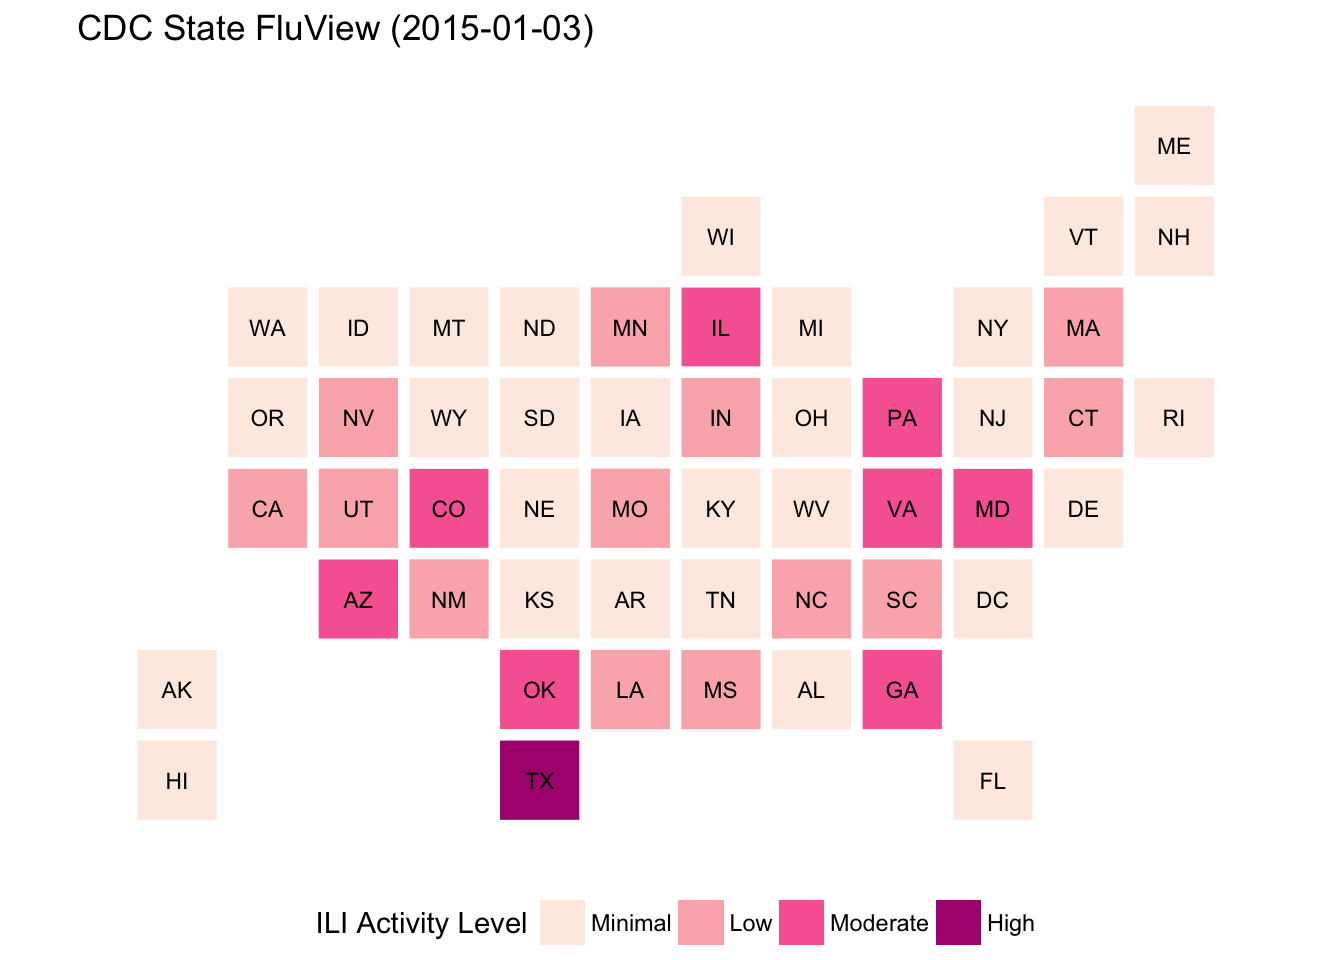
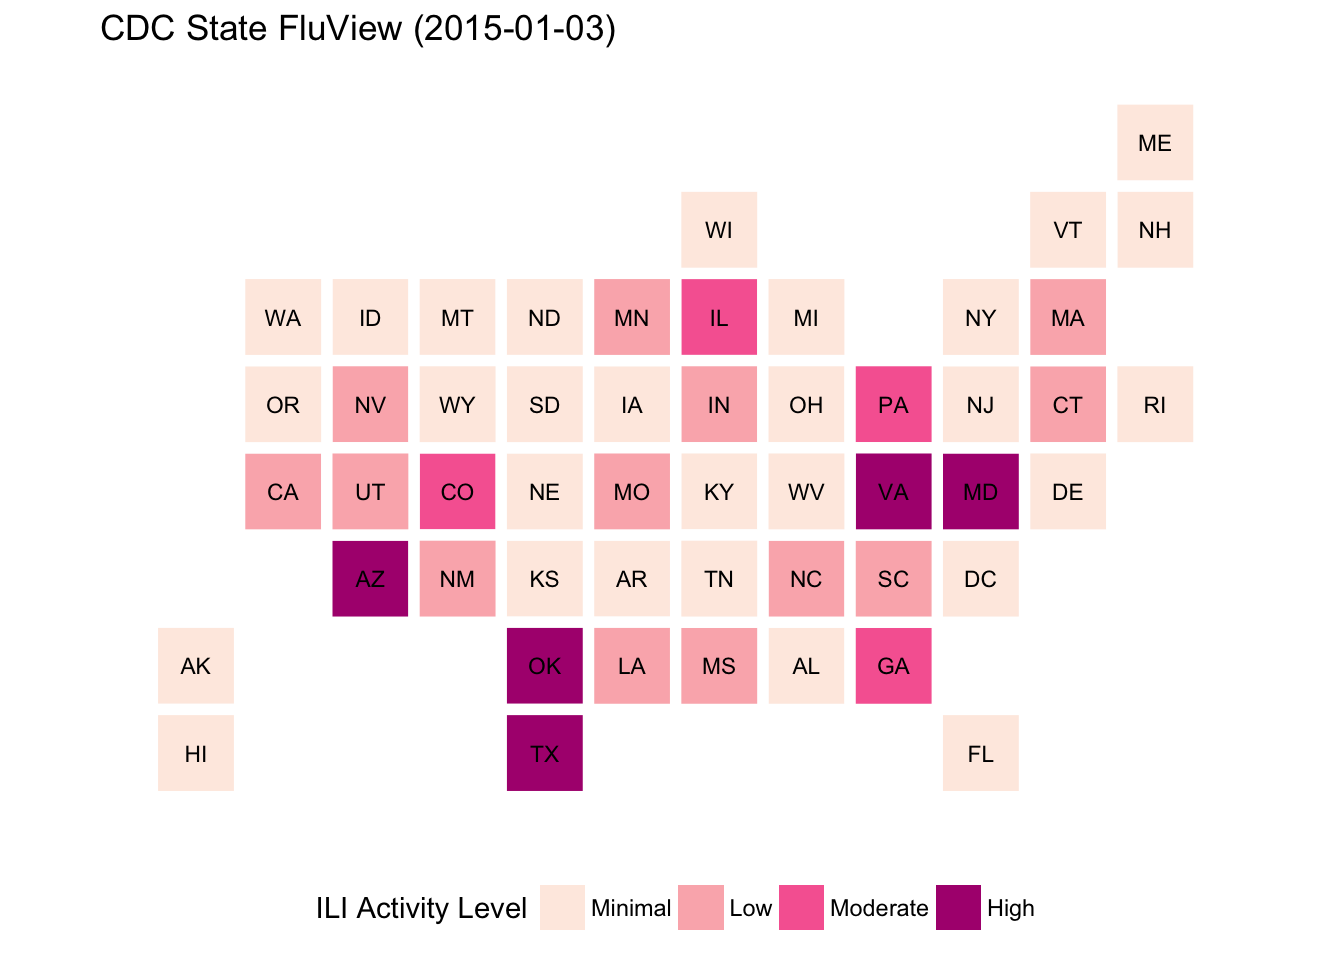
README fix + needed lib-v8 for travis

diff --git a/README.md b/README.md
@@ -1,20 +1,20 @@
 
 ### :mask: cdcfluview - Retrieve U.S. Flu Season Data from the CDC FluView Portal
 
-[![CRAN\_Status\_Badge](http://www.r-pkg.org/badges/version/cdcfluview)](https://cran.r-project.org/package=cdcfluview)
+[![CRAN\_Status\_Badge](http://www.r-pkg.org/badges/version/cdcfluview)](https://cran.r-project.org/package=cdcfluview) [![Travis-CI Build Status](https://travis-ci.org/NA/NA.svg?branch=master)](https://travis-ci.org/NA/NA)
 
-**NOTE** If there's a particular data set from <http://www.cdc.gov/flu/weekly/fluviewinteractive.htm> that you want and that isn't in the package, please file it as an issue and be as specific as you can (screen shot if possible).
+**NOTE** If there's a particular data set from <https://www.cdc.gov/flu/weekly/fluviewinteractive.htm> that you want and that isn't in the package, please file it as an issue and be as specific as you can (screen shot if possible).
 
 ------------------------------------------------------------------------
 
-The U.S. Centers for Disease Control (CDC) maintains a [portal](http://gis.cdc.gov/grasp/fluview/fluportaldashboard.html) for accessing state, regional and national influenza statistics. The portal's Flash interface makes it difficult and time-consuming to select and retrieve influenza data. This package provides functions to access the data provided by the portal's underlying API.
+The U.S. Centers for Disease Control (CDC) maintains a [portal](https://gis.cdc.gov/grasp/fluview/fluportaldashboard.html) for accessing state, regional and national influenza statistics. The portal's Flash interface makes it difficult and time-consuming to select and retrieve influenza data. This package provides functions to access the data provided by the portal's underlying API.
 
 The following functions are implemented:
 
 -   `get_flu_data`: Retrieves state, regional or national influenza statistics from the CDC
 -   `get_state_data`: Retrieves state/territory-level influenza statistics from the CDC
 -   `get_weekly_flu_report`: Retrieves (high-level) weekly influenza surveillance report from the CDC
--   `get_mortality_surveillance_data` : (fairly self explanatory but also pretty new to the pkg and uses data from: <http://www.cdc.gov/flu/weekly/nchs.htm>
+-   `get_mortality_surveillance_data` : (fairly self explanatory but also pretty new to the pkg and uses data from: <https://www.cdc.gov/flu/weekly/nchs.htm>
 
 The following data sets are included:
 
@@ -49,7 +49,7 @@ library(statebins)
 
 # current verison
 packageVersion("cdcfluview")
-#> [1] '0.5.0'
+#> [1] '0.5.1'
 
 flu <- get_flu_data("hhs", sub_region=1:10, "ilinet", years=2014)
 glimpse(flu)
@@ -59,30 +59,30 @@ glimpse(flu)
 #> $ REGION            <chr> "Region 1", "Region 2", "Region 3", "Region 4", "Region 5", "Region 6", "Region 7", "Regi...
 #> $ YEAR              <int> 2014, 2014, 2014, 2014, 2014, 2014, 2014, 2014, 2014, 2014, 2014, 2014, 2014, 2014, 2014,...
 #> $ WEEK              <int> 40, 40, 40, 40, 40, 40, 40, 40, 40, 40, 41, 41, 41, 41, 41, 41, 41, 41, 41, 41, 42, 42, 4...
-#> $ % WEIGHTED ILI    <dbl> 0.830610, 1.775920, 1.147780, 0.816796, 0.737037, 1.828510, 0.697022, 0.673507, 1.781290,...
-#> $ %UNWEIGHTED ILI   <dbl> 0.681009, 1.643370, 1.311660, 0.906310, 1.009690, 1.775430, 0.437619, 0.930417, 1.497090,...
-#> $ AGE 0-4           <int> 101, 869, 395, 333, 358, 465, 50, 82, 310, 22, 109, 884, 404, 355, 339, 560, 57, 58, 335,...
-#> $ AGE 25-49         <int> 44, 363, 455, 187, 181, 469, 43, 87, 220, 7, 37, 385, 466, 247, 182, 504, 56, 87, 225, 20...
+#> $ % WEIGHTED ILI    <dbl> 0.830610, 1.795830, 1.162260, 0.828920, 0.744546, 1.604740, 0.697022, 0.635856, 1.793140,...
+#> $ %UNWEIGHTED ILI   <dbl> 0.681009, 1.649790, 1.321020, 0.911243, 1.013950, 1.647270, 0.437619, 0.813397, 1.501530,...
+#> $ AGE 0-4           <int> 101, 869, 395, 331, 358, 446, 50, 76, 310, 22, 109, 837, 403, 355, 338, 540, 57, 57, 335,...
+#> $ AGE 25-49         <int> 44, 363, 455, 187, 181, 410, 43, 49, 220, 7, 37, 349, 465, 244, 182, 451, 56, 87, 225, 20...
 #> $ AGE 25-64         <chr> NA, NA, NA, NA, NA, NA, NA, NA, NA, NA, NA, NA, NA, NA, NA, NA, NA, NA, NA, NA, NA, NA, N...
-#> $ AGE 5-24          <int> 185, 757, 629, 536, 400, 711, 98, 155, 577, 30, 199, 704, 670, 772, 443, 809, 124, 148, 5...
-#> $ AGE 50-64         <int> 13, 157, 127, 80, 80, 123, 15, 19, 110, 1, 24, 176, 132, 74, 105, 186, 18, 23, 118, 10, 2...
-#> $ AGE 65            <int> 9, 108, 90, 46, 64, 78, 14, 8, 112, 1, 17, 127, 75, 64, 48, 100, 14, 12, 103, 3, 9, 114, ...
-#> $ ILITOTAL          <int> 352, 2254, 1696, 1182, 1083, 1846, 220, 351, 1329, 61, 386, 2276, 1747, 1512, 1117, 2159,...
-#> $ NUM. OF PROVIDERS <int> 147, 285, 244, 305, 267, 241, 84, 120, 240, 55, 151, 275, 241, 311, 277, 250, 84, 116, 24...
-#> $ TOTAL PATIENTS    <int> 51688, 137157, 129302, 130419, 107261, 103975, 50272, 37725, 88772, 11172, 51169, 134995,...
+#> $ AGE 5-24          <int> 185, 757, 627, 530, 400, 636, 98, 154, 577, 30, 199, 676, 669, 772, 443, 741, 124, 148, 5...
+#> $ AGE 50-64         <int> 13, 157, 126, 80, 80, 111, 15, 19, 110, 1, 24, 151, 130, 74, 105, 168, 18, 23, 118, 10, 2...
+#> $ AGE 65            <int> 9, 107, 89, 46, 64, 77, 14, 8, 112, 1, 17, 115, 75, 64, 48, 97, 14, 12, 103, 3, 9, 114, 8...
+#> $ ILITOTAL          <int> 352, 2253, 1692, 1174, 1083, 1680, 220, 306, 1329, 61, 386, 2128, 1742, 1509, 1116, 1997,...
+#> $ NUM. OF PROVIDERS <int> 146, 276, 234, 299, 261, 226, 84, 119, 237, 55, 150, 265, 232, 306, 271, 235, 84, 115, 24...
+#> $ TOTAL PATIENTS    <int> 51688, 136563, 128083, 128835, 106810, 101987, 50272, 37620, 88510, 11172, 51169, 131884,...
 
 state_flu <- get_state_data(years=2015)
 glimpse(state_flu)
-#> Observations: 2,756
+#> Observations: 2,807
 #> Variables: 8
-#> $ STATENAME            <chr> "Alabama", "Alabama", "Alabama", "Alabama", "Alabama", "Alabama", "Alabama", "Alabama"...
-#> $ URL                  <chr> "http://adph.org/influenza/", "http://adph.org/influenza/", "http://adph.org/influenza...
-#> $ WEBSITE              <chr> "Influenza Surveillance", "Influenza Surveillance", "Influenza Surveillance", "Influen...
-#> $ ACTIVITY.LEVEL       <chr> "Level 1", "Level 1", "Level 1", "Level 1", "Level 1", "Level 1", "Level 1", "Level 3"...
-#> $ ACTIVITY.LEVEL.LABEL <chr> "Minimal", "Minimal", "Minimal", "Minimal", "Minimal", "Minimal", "Minimal", "Minimal"...
-#> $ WEEKEND              <chr> "Oct-10-2015", "Oct-17-2015", "Oct-24-2015", "Oct-31-2015", "Nov-07-2015", "Nov-14-201...
-#> $ WEEK                 <int> 40, 41, 42, 43, 44, 45, 46, 47, 48, 49, 50, 51, 52, 1, 2, 3, 4, 5, 6, 7, 8, 9, 10, 11,...
-#> $ SEASON               <chr> "2015-16", "2015-16", "2015-16", "2015-16", "2015-16", "2015-16", "2015-16", "2015-16"...
+#> $ statename            <chr> "Alabama", "Alaska", "Arizona", "Arkansas", "California", "Colorado", "Connecticut", "...
+#> $ url                  <chr> "http://adph.org/influenza/", "http://dhss.alaska.gov/dph/Epi/id/Pages/influenza/influ...
+#> $ website              <chr> "Influenza Surveillance", "Influenza Surveillance Report", "Influenza & RSV Surveillan...
+#> $ activity_level       <int> 1, 1, 1, 1, 1, 1, 1, 1, 1, 3, 1, 1, 1, 1, 1, 1, 1, 1, 1, 1, 1, 1, 1, 1, 1, 1, 1, 1, 1,...
+#> $ activity_level_label <chr> "Minimal", "Minimal", "Minimal", "Minimal", "Minimal", "Minimal", "Minimal", "Minimal"...
+#> $ weekend              <chr> "Oct-10-2015", "Oct-10-2015", "Oct-10-2015", "Oct-10-2015", "Oct-10-2015", "Oct-10-201...
+#> $ season               <chr> "2015-16", "2015-16", "2015-16", "2015-16", "2015-16", "2015-16", "2015-16", "2015-16"...
+#> $ weeknumber           <int> 40, 40, 40, 40, 40, 40, 40, 40, 40, 40, 40, 40, 40, 40, 40, 40, 40, 40, 40, 40, 40, 40...
 
 gg <- ggplot(flu, aes(x=WEEK, y=`% WEIGHTED ILI`, group=REGION))
 gg <- gg + geom_line()
@@ -133,8 +133,8 @@ gg
 
 ``` r
 gg_s <- state_flu %>%
-  filter(WEEKEND=="Jan-02-2016") %>%
-  select(state=STATENAME, value=ACTIVITY.LEVEL) %>%
+  filter(weekend=="Jan-02-2016") %>%
+  select(state=statename, value=activity_level) %>%
   filter(!(state %in% c("Puerto Rico", "New York City"))) %>% # need to add PR to statebins
   mutate(value=as.numeric(gsub("Level ", "", value))) %>%
   statebins(brewer_pal="RdPu", breaks=4, 
@@ -153,11 +153,11 @@ library(cdcfluview)
 library(testthat)
 
 date()
-#> [1] "Mon Sep 26 11:23:17 2016"
+#> [1] "Mon Dec  5 14:23:45 2016"
 
 test_dir("tests/")
 #> testthat results ========================================================================================================
-#> OK: 0 SKIPPED: 0 FAILED: 0
+#> OK: 2 SKIPPED: 0 FAILED: 0
 #> 
 #> DONE ===================================================================================================================
 ```
